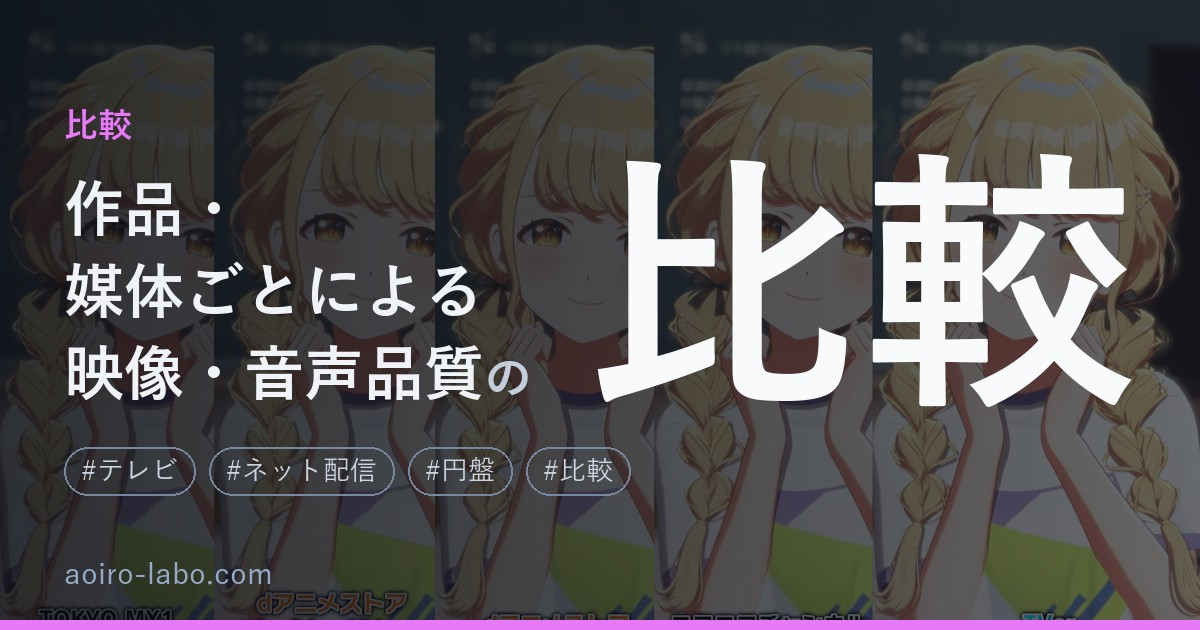
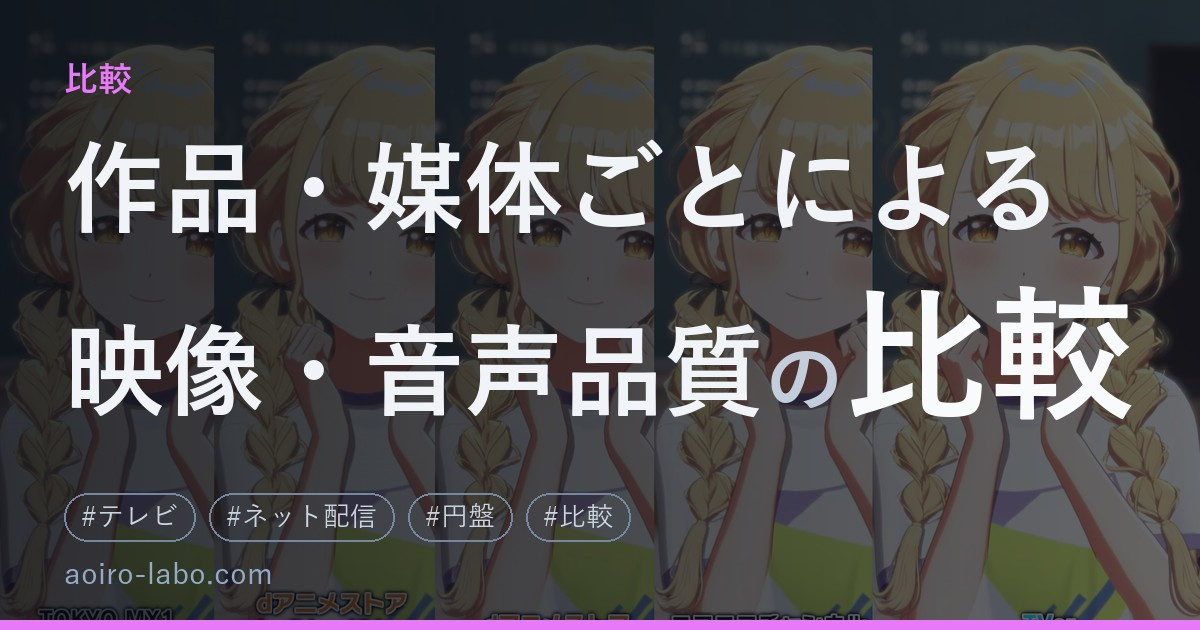
カバー：中黒の直後では改行しない

diff --git a/tools/generate_cover.py b/tools/generate_cover.py
@@ -187,6 +187,8 @@ def layout(items, widths, maxw, maxlines, balance_last=False, min_fill=0.0):
             if j<n-1:
                 if items[j+1][2]:  # next is glue: cannot break here
                     continue
+                if items[j][0].endswith('・'):  # never break right after a nakaguro
+                    continue
                 slack=maxw-w
                 cost=slack*slack/700.0
                 if min_fill and w < maxw*min_fill: cost+=400
